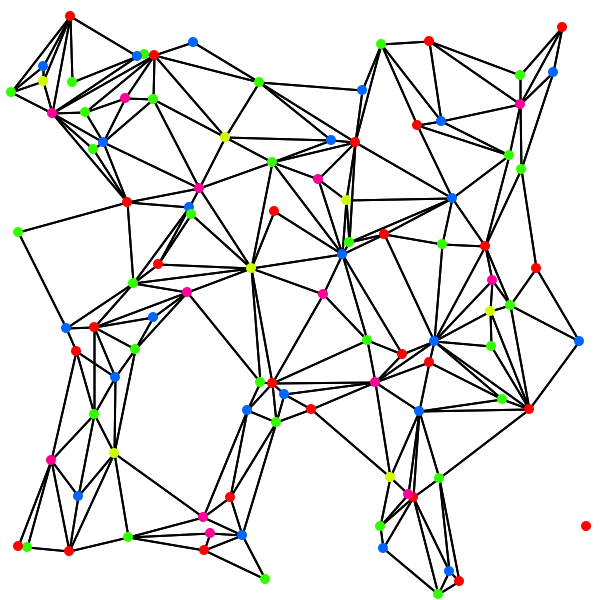
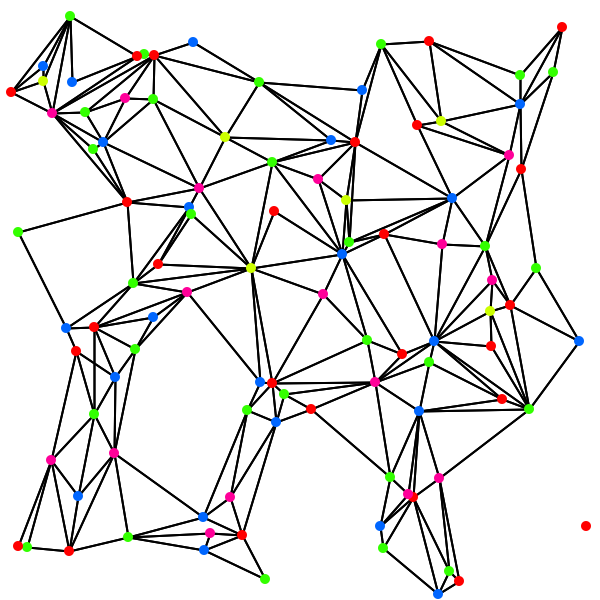
add color correctness verification

diff --git a/lab5/src/test/java/mouse/univ/color/OrderedLocalMinimizationColoringTest.java b/lab5/src/test/java/mouse/univ/color/OrderedLocalMinimizationColoringTest.java
@@ -24,6 +24,7 @@ class OrderedLocalMinimizationColoringTest {
             maxColor = Math.max(v.getColor(), maxColor);
         }
         assertEquals(nodes - 1, maxColor);
+        Util.assertCorrectColors(minimized);
     }
 
     @Test
@@ -37,6 +38,7 @@ class OrderedLocalMinimizationColoringTest {
         for (ColoredVertex v : allVertices) {
             assertEquals(0, v.getColor());
         }
+        Util.assertCorrectColors(minimized);
     }
 
     @ParameterizedTest
@@ -52,6 +54,7 @@ class OrderedLocalMinimizationColoringTest {
         System.out.println("Max color: " + maxColor);
         System.out.println("Theoretical max: " + theoreticalMax);
         assertTrue(maxColor <= theoreticalMax);
+        Util.assertCorrectColors(minimized);
     }
 
     @Test
@@ -67,6 +70,7 @@ class OrderedLocalMinimizationColoringTest {
         System.out.println("Max color: " + maxColor);
         System.out.println("Theoretical max: " + theoreticalMax);
         assertTrue(maxColor <= theoreticalMax);
+        Util.assertCorrectColors(minimized);
     }
 
     @Test
@@ -79,6 +83,7 @@ class OrderedLocalMinimizationColoringTest {
         int maxColor = minimized.maxColor();
         System.out.println("Max color: " + maxColor);
         assertEquals(1, maxColor);
+        Util.assertCorrectColors(minimized);
     }
 
     @Test
@@ -91,5 +96,6 @@ class OrderedLocalMinimizationColoringTest {
         int maxColor = minimized.maxColor();
         System.out.println("Max color: " + maxColor);
         assertEquals(1, maxColor);
+        Util.assertCorrectColors(minimized);
     }
 }

diff --git a/lab5/src/test/java/mouse/univ/color/RandomLocalMinimizationColoringTest.java b/lab5/src/test/java/mouse/univ/color/RandomLocalMinimizationColoringTest.java
@@ -23,6 +23,7 @@ class RandomLocalMinimizationColoringTest {
             maxColor = Math.max(v.getColor(), maxColor);
         }
         assertEquals(nodes - 1, maxColor);
+        Util.assertCorrectColors(minimized);
     }
 
     @Test
@@ -36,6 +37,7 @@ class RandomLocalMinimizationColoringTest {
         for (ColoredVertex v : allVertices) {
             assertEquals(0, v.getColor());
         }
+        Util.assertCorrectColors(minimized);
     }
 
     @ParameterizedTest
@@ -51,6 +53,7 @@ class RandomLocalMinimizationColoringTest {
         System.out.println("Max color: " + maxColor);
         System.out.println("Theoretical max: " + theoreticalMax);
         assertTrue(maxColor <= theoreticalMax);
+        Util.assertCorrectColors(minimized);
     }
 
     @Test
@@ -66,5 +69,6 @@ class RandomLocalMinimizationColoringTest {
         System.out.println("Max color: " + maxColor);
         System.out.println("Theoretical max: " + theoreticalMax);
         assertTrue(maxColor <= theoreticalMax);
+        Util.assertCorrectColors(minimized);
     }
 }

diff --git a/lab5/src/main/java/mouse/univ/color/Minimization.java b/lab5/src/main/java/mouse/univ/color/Minimization.java
@@ -11,12 +11,12 @@ public class Minimization {
     public static boolean minimize(GenColoringState coloringState, ColoredVertex current) {
         int id = current.getId();
         Lock currentLock = coloringState.getLocks().get(id);
-        currentLock.lock();
         try {
             coloringState.semaphore().acquire();
         } catch (InterruptedException e) {
             throw new RuntimeException(e);
         }
+        currentLock.lock();
         List<Lock> acquired = new ArrayList<>();
         acquired.add(currentLock);
         boolean success = true;
@@ -31,7 +31,7 @@ public class Minimization {
                 break;
             }
         }
-        coloringState.semaphore().release();
+
         if (!success) {
             return false;
         }
@@ -49,6 +49,7 @@ public class Minimization {
             current.setColor(minColor);
         }
         acquired.forEach(Lock::unlock);
+        coloringState.semaphore().release();
         coloringState.incrementTotal();
         return true;
     }

diff --git a/lab5/src/test/java/mouse/univ/color/Util.java b/lab5/src/test/java/mouse/univ/color/Util.java
@@ -1,0 +1,17 @@
+package mouse.univ.color;
+
+import java.util.Set;
+
+import static org.junit.jupiter.api.Assertions.assertNotEquals;
+
+public class Util {
+
+    public static void assertCorrectColors(ColoredGraph coloredGraph) {
+        Set<ColoredVertex> allVertices = coloredGraph.getAllVertices();
+        for (ColoredVertex v : allVertices) {
+            for (ColoredVertex n : v.getNeighbors()) {
+                assertNotEquals(v.getColor(), n.getColor(), "Duplicate colors: " + v.getId() + ", " + n.getId());
+            }
+        }
+    }
+}

diff --git a/lab5/src/main/java/mouse/univ/color/ColoredGraphGenerator.java b/lab5/src/main/java/mouse/univ/color/ColoredGraphGenerator.java
@@ -61,7 +61,7 @@ public class ColoredGraphGenerator {
         List<ColoredVertex> coloredVertexList = new ArrayList<>();
         ColoredVertex prev = new ColoredVertex(0, 0);
         coloredVertexList.add(prev);
-        for (int i = 0; i < nodes; i++) {
+        for (int i = 1; i < nodes; i++) {
             ColoredVertex v = new ColoredVertex(i, i);
             v.addNeighbor(prev);
             coloredVertexList.add(v);
